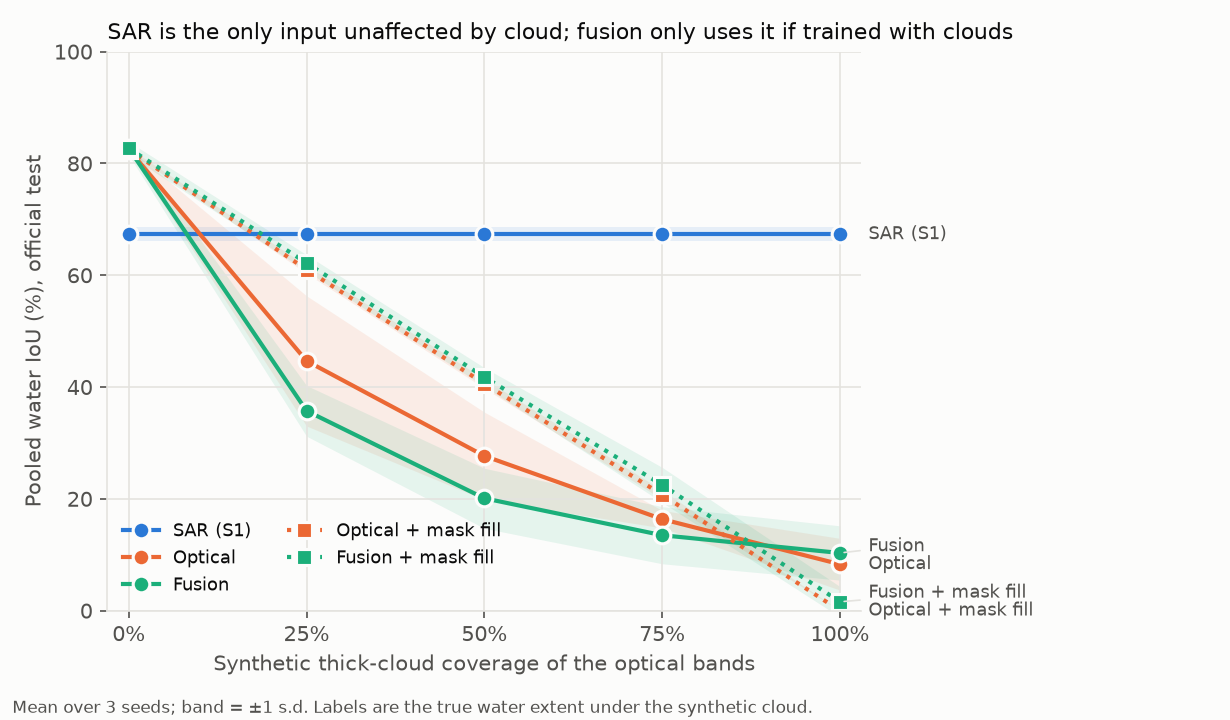
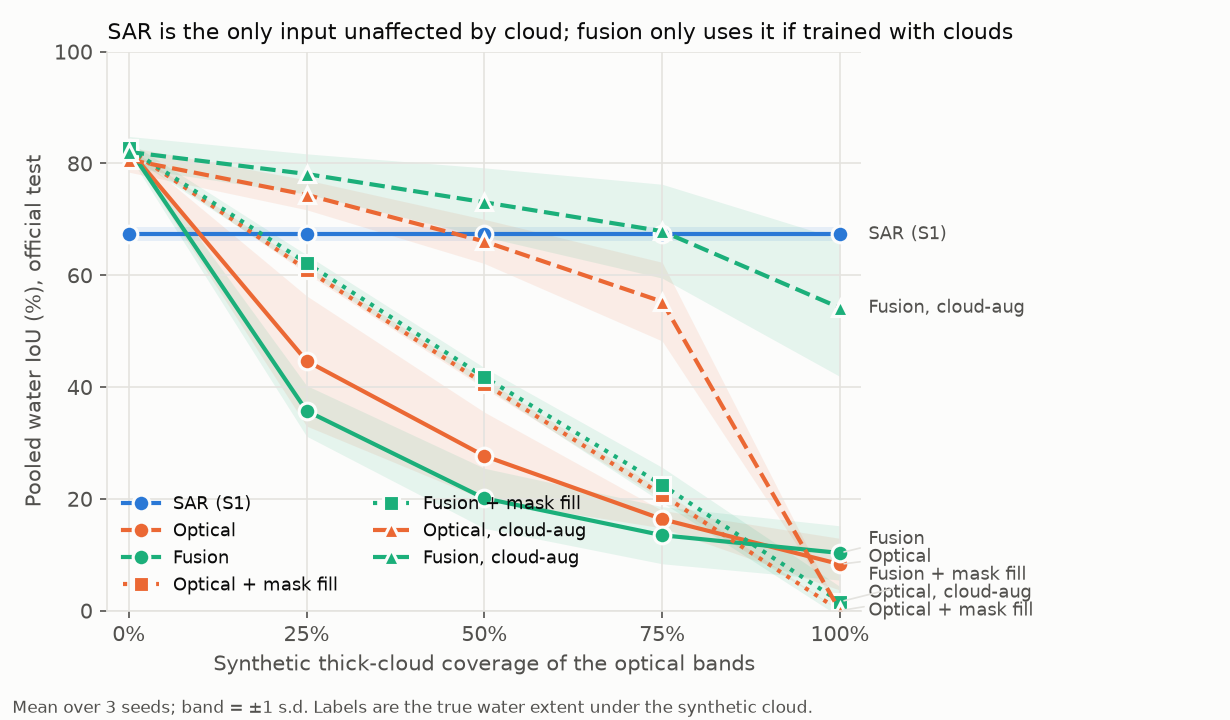
update results and figures for cloud-augmented models; refine unit tests for SAR data generation.

diff --git a/tests/test_baselines.py b/tests/test_baselines.py
@@ -44,14 +44,16 @@ def synthetic_sar_data():
     cube = np.zeros((h, w, 2), dtype=np.float32)
     label = np.zeros((h, w), dtype=np.int64)
 
+    rng = np.random.default_rng(0)
+
     # Water region: Specular reflection -> very dark VV (around -20 dB)
-    cube[:32, :, 0] = np.random.normal(-20.0, 1.0, (32, w))
-    cube[:32, :, 1] = np.random.normal(-25.0, 1.0, (32, w))
+    cube[:32, :, 0] = rng.normal(-20.0, 1.0, (32, w))
+    cube[:32, :, 1] = rng.normal(-25.0, 1.0, (32, w))
     label[:32, :] = 1
 
     # Land region: Diffuse reflection -> brighter VV (around -8 dB)
-    cube[32:, :, 0] = np.random.normal(-8.0, 1.5, (32, w))
-    cube[32:, :, 1] = np.random.normal(-14.0, 1.5, (32, w))
+    cube[32:, :, 0] = rng.normal(-8.0, 1.5, (32, w))
+    cube[32:, :, 1] = rng.normal(-14.0, 1.5, (32, w))
     label[32:, :] = 0
 
     return cube, label
@@ -107,7 +109,9 @@ def test_sar_threshold_tuning_recovers_separating_value(synthetic_sar_data):
     cube, label = synthetic_sar_data
     baseline = SARThresholdBaseline()
     tau = baseline.tune_threshold([cube], [label])
-    assert -17.0 < tau < -11.0
+    # Any threshold in the gap between the brightest water and darkest land pixel is optimal
+    gap_lo, gap_hi = cube[:32, :, 0].max(), cube[32:, :, 0].min()
+    assert gap_lo - 0.5 < tau < gap_hi + 0.5
     assert compute_sample_iou(baseline.predict(cube), label) > 0.95
 
 

diff --git a/README.md b/README.md
@@ -9,7 +9,7 @@
 > **Headline research question:**
 > *How much does Synthetic Aperture Radar (SAR), which penetrates clouds and storm cover, improve flood mapping over optical imagery, and where does each modality fail?*
 
-**Short answer.** On Sen1Floods11's labelled (largely cloud-free) pixels, optical beats SAR by 15–20 IoU points and adding SAR to optical gives no gain. Once clouds cover the optical bands, **SAR is the only input that keeps working** (67% IoU at any cloud cover, vs. 8% for optical under full cover). A standard early-fusion model **does not fall back on its SAR channels** and collapses like optical alone. In the August 2018 Kerala floods, both Sentinel-2 images of the peak (15 and 17 Aug) were 100% clouded. The SAR model mapped **314 km² of new flood water**, and on the clear pixels of an optical image taken one day later it agrees with an optical water index at 80% IoU.
+**Short answer.** On Sen1Floods11's labelled (largely cloud-free) pixels, optical beats SAR by 15–20 IoU points and adding SAR to optical gives no gain. Once clouds cover the optical bands, **SAR is the only input that keeps working** (67% IoU at any cloud cover, vs. 8% for optical under full cover). A standard early-fusion model **does not fall back on its SAR channels** and collapses like optical alone. **Training fusion with synthetic clouds fixes this:** it matches optical on clear data, beats SAR up to ~50% cloud cover, and ties it at 75%, though SAR alone stays best under total cloud. In the August 2018 Kerala floods, both Sentinel-2 images of the peak (15 and 17 Aug) were 100% clouded. The SAR model mapped **314 km² of new flood water**, and on the clear pixels of an optical image taken one day later it agrees with an optical water index at 80% IoU.
 
 ---
 
@@ -91,10 +91,13 @@ Sen1Floods11 labels clouded pixels as no-data, so the benchmark above never scor
 | Optical (S2) | 82.5 | 44.7 | 27.7 | 16.4 | 8.3 |
 | Fusion | 82.7 | 35.7 | 20.1 | 13.5 | 10.3 |
 | Fusion + perfect cloud mask (cloud → train mean) | 82.7 | 62.2 | 41.8 | 22.5 | 1.6 |
-| Fusion, trained with synthetic clouds | *pending `make cloudaug`* | | | | |
+| Optical, trained with synthetic clouds | 80.7 | 74.4 | 66.0 | 55.3 | 0.0 |
+| **Fusion, trained with synthetic clouds** | 82.1 | **78.1** | **73.0** | **67.9** | 54.2 |
 
 - **SAR overtakes optical once ~10% of the scene is clouded.** At 25% cover, SAR leads optical by 25.5 pp [17.3, 33.7].
 - **Standard fusion ignores its SAR channels when optical is corrupted.** It is *worse* than optical at partial cover (−6.1 pp at 25%). Even when it is told exactly where the cloud is, it gains only +1.6 pp over optical at 100% cover, versus 67% for SAR alone. Fusion learned on clear-sky data is an optical model with unused radar inputs.
+- **Training with synthetic clouds fixes this.** The cloud-augmented fusion model costs nothing on clear data (−0.6 pp vs standard fusion, CI [−2.3, +1.0]) and gains +42 to +55 pp under cloud. It beats SAR alone at 25% cover (+10.8 pp [5.2, 17.2]) and 50% cover (+5.8 pp [0.3, 11.8]), and ties it at 75% (+0.7 pp [−4.9, 6.2]). It is the best model at every partial cover (25–75%).
+- **SAR alone remains the right choice under full cloud.** At 100% cover the cloud-aug fusion model still trails SAR by 12.7 pp [6.9, 19.1], and it varies widely between seeds (54.2 ± 12.3). It does fall back on its radar channels (+54.6 pp over the cloud-aug optical model, which has no signal left and drops to 0%), but less reliably than a dedicated SAR model.
 - **Real cloudy scenes:** on the *visible* pixels of the cloudiest real test chips (≥30% cloud proxy), fusion beats optical by 5 pp (73.2 vs 68.2), its largest gain on real data. Elsewhere the two are within ±2 pp.
 - **Per event:** SAR is competitive only in Ghana (59.3 vs 55.6 optical) and collapses on Pakistan (32.9 vs 64.3 optical). A likely cause is smooth, dry surfaces that are radar-dark like water.
 - **Calibration:** SAR is over-confident at mid-range probabilities (reliability plot in `m4_table.md`).

diff --git a/outputs/results/m4_table.md b/outputs/results/m4_table.md
@@ -13,6 +13,8 @@ Pooled water IoU (%), mean ± s.d. over seeds:
 | Fusion | 82.7 ± 1.2 | 35.7 ± 4.5 | 20.1 ± 5.4 | 13.5 ± 5.1 | 10.3 ± 4.9 |
 | Optical + cloud-mask fill | 82.5 ± 0.3 | 61.0 ± 0.7 | 40.6 ± 0.8 | 20.7 ± 0.8 | 0.0 ± 0.0 |
 | Fusion + cloud-mask fill | 82.7 ± 1.2 | 62.2 ± 1.5 | 41.8 ± 1.7 | 22.5 ± 3.1 | 1.6 ± 2.7 |
+| Optical, cloud-aug trained | 80.7 ± 2.2 | 74.4 ± 2.7 | 66.0 ± 4.0 | 55.3 ± 7.0 | 0.0 ± 0.0 |
+| Fusion, cloud-aug trained | 82.1 ± 2.8 | 78.1 ± 3.6 | 73.0 ± 6.2 | 67.9 ± 8.4 | 54.2 ± 12.3 |
 
 Paired differences (seed-summed per-chip counts, 5,000 chip bootstrap resamples), in pp:
 
@@ -22,6 +24,9 @@ Paired differences (seed-summed per-chip counts, 5,000 chip bootstrap resamples)
 | Fusion − SAR (S1) | +15.4 [+10.2, +22.2] | -31.6 [-39.9, -22.8] | -47.5 [-55.5, -38.0] | -54.2 [-62.2, -44.4] | -57.4 [-65.5, -47.2] |
 | Optical (S2) − SAR (S1) | +15.2 [+9.8, +22.2] | -25.5 [-33.7, -17.3] | -42.5 [-50.3, -33.5] | -51.6 [-59.6, -42.2] | -56.8 [-64.9, -47.1] |
 | Fusion + cloud-mask fill − Optical + cloud-mask fill | +0.2 [-1.3, +1.7] | +1.2 [+0.2, +2.3] | +1.2 [+0.2, +2.2] | +1.8 [+0.6, +3.1] | +1.6 [+0.6, +2.9] |
+| Fusion, cloud-aug trained − Optical, cloud-aug trained | +1.3 [+0.1, +3.1] | +3.7 [+2.1, +5.6] | +7.1 [+4.0, +10.5] | +12.6 [+8.0, +17.7] | +54.6 [+43.0, +63.4] |
+| Fusion, cloud-aug trained − SAR (S1) | +14.7 [+9.1, +21.8] | +10.8 [+5.2, +17.2] | +5.8 [+0.3, +11.8] | +0.7 [-4.9, +6.2] | -12.7 [-19.1, -6.9] |
+| Fusion, cloud-aug trained − Fusion | -0.6 [-2.3, +1.0] | +42.4 [+36.6, +48.5] | +53.3 [+47.1, +58.6] | +54.9 [+47.4, +60.9] | +44.7 [+33.5, +53.6] |
 
 ![Cloud robustness](../figures/m4_cloud_robustness.png)
 
@@ -92,6 +97,6 @@ Chips: India_747992, Sri-Lanka_1049830, Pakistan_849790, USA_670826. Blue = hit,
 
 | Model | Params | ms / 512×512 chip | Device |
 | :--- | :---: | :---: | :--- |
-| SAR (S1) | 24.43M | 21.6 | NVIDIA GeForce RTX 3060 Laptop GPU |
-| Optical (S2) | 24.47M | 22.4 | NVIDIA GeForce RTX 3060 Laptop GPU |
-| Fusion (S1+S2) | 24.47M | 22.2 | NVIDIA GeForce RTX 3060 Laptop GPU |
+| SAR (S1) | 24.43M | 27.7 | NVIDIA GeForce RTX 3060 Laptop GPU |
+| Optical (S2) | 24.47M | 29.0 | NVIDIA GeForce RTX 3060 Laptop GPU |
+| Fusion (S1+S2) | 24.47M | 28.7 | NVIDIA GeForce RTX 3060 Laptop GPU |

diff --git a/docs/DESIGN.md b/docs/DESIGN.md
@@ -132,6 +132,8 @@ Sen1Floods11 hand labels mark clouded pixels as no-data (`-1`), so the benchmark
 2. **Perfect cloud mask:** pixels with opacity ≥ 0.5 have their S2 values replaced by the train mean (i.e. 0 after normalisation). This is an upper bound on what a cloud-masking pre-processor achieves without retraining.
 3. **Cloud-augmented training** (`train.synthetic_cloud_p = 0.5`, coverage ~ U(0, 1)): models see occluded optical bands during training, so fusion can learn to fall back on SAR. Training clouds use torch's per-worker RNG and never coincide with the deterministic evaluation fields.
 
+**Outcome:** cloud-augmented fusion keeps clear-sky accuracy (82.1 vs 82.7) and beats SAR at 25–50% cover. It ties SAR at 75% and trails it at 100% (54.2 ± 12.3 vs 67.3). So the fallback to SAR is learned, but only partly and with high seed variance. For fully clouded scenes, a dedicated SAR model remains the safer choice, which is why the Kerala case study (§9) uses the SAR ensemble.
+
 ### 8.4 Real-chip stratification
 Test chips are binned by (a) a heuristic cloud proxy (B2, B3, B4 > 0.18 or B10 > 0.012) and (b) the labelled no-data fraction. The proxy agrees only moderately with the labellers' mask (P(no-data | proxy) = 0.40, P(proxy | no-data) = 0.58), so it is used for stratification only. Because clouded pixels carry no label, these bins measure performance on the *visible* part of cloudy scenes (adjacency effects, thin cloud, haze, shadow).
 
